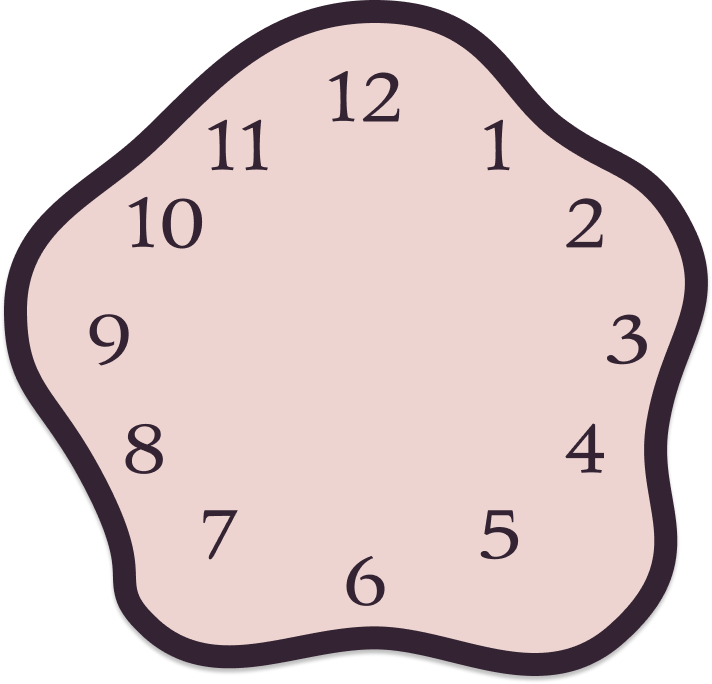
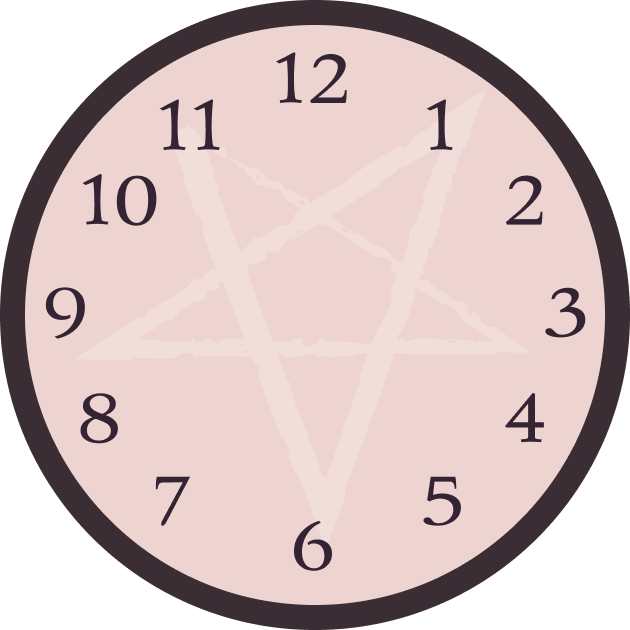
PATCH NOTE: reworked all clock ui (kinda)
- made clock basic circle for now + pentacle design
- tweakers the clock hand designs

diff --git a/Witch-Project/src/App.css b/Witch-Project/src/App.css
@@ -11,12 +11,12 @@ body{
   background-repeat: no-repeat;
   height: 100vh;
   width: 100%;
-  overflow-y: hidden;
+  overflow-x: hidden;
   position: relative;
 }
 
 .questMenuIcon{
-  position: absolute;
+  position: fixed;
   top: 20px;
   left: 20px;
   cursor: pointer;
@@ -98,7 +98,7 @@ z-index: 20;
 }
 
 .progressBarContainer{
-  position: absolute;
+  position: fixed;
   width: 25%;
   margin-left: 3rem;
   margin-bottom: 3rem;
@@ -141,6 +141,13 @@ z-index: 20;
   z-index: 10;
 }
 
+.timer-shelf-container{
+  display: flex;
+  flex-direction: column;
+  justify-content: center;
+  gap: 20px;
+
+}
 .timer-container{
   display: flex;
   justify-content: center;
@@ -152,11 +159,13 @@ z-index: 20;
 .clock-container {
   position: relative;
   margin: auto;
+  height: 500px;
+  width: 500px;
 }
 
 .clock-face {
   position: relative;
-  height: 500px;
+
 }
 
 
@@ -164,21 +173,21 @@ z-index: 20;
   position: absolute;
   top: 0;
   left: 0;
-  height: 500px;
+
 }
 
 .minute-hand {
   position: absolute;
   top: 0;
   left: 0;
-  height: 500px;
+
 }
 
 .clock-origin {
   position: absolute;
   top: 0;
   left: 0;
-  height: 500px;
+
 }
 
 .shelfContainer{
@@ -196,8 +205,8 @@ z-index: 20;
   bottom: 0;
   left: 0;
   width: auto;
-  height: 500px;
-  transform: translateY(90px);
+  height: 400px;
+  transform: translateY(100px);
   background-color: transparent;
   display: flex;
   justify-content: center;

diff --git a/Witch-Project/src/App.tsx b/Witch-Project/src/App.tsx
@@ -1,6 +1,6 @@
 import React, { useState } from "react";
 import "./App.css";
-
+import { Container, Row, Col } from "react-bootstrap";
 
 import ProgressBar from "./componenets/ProgressBar";
 import Timer from "./componenets/Timer";
@@ -123,9 +123,14 @@ export default function App() {
         </div>
 )}
 
+<div className="timer-shelf-container">
+
 <Timer />
+
 <div className="shelfContainer">
 <img className="mainShelf" src={mainShelf} alt="Main Shelf" />
+</div>
+
 </div>
 
     </>
